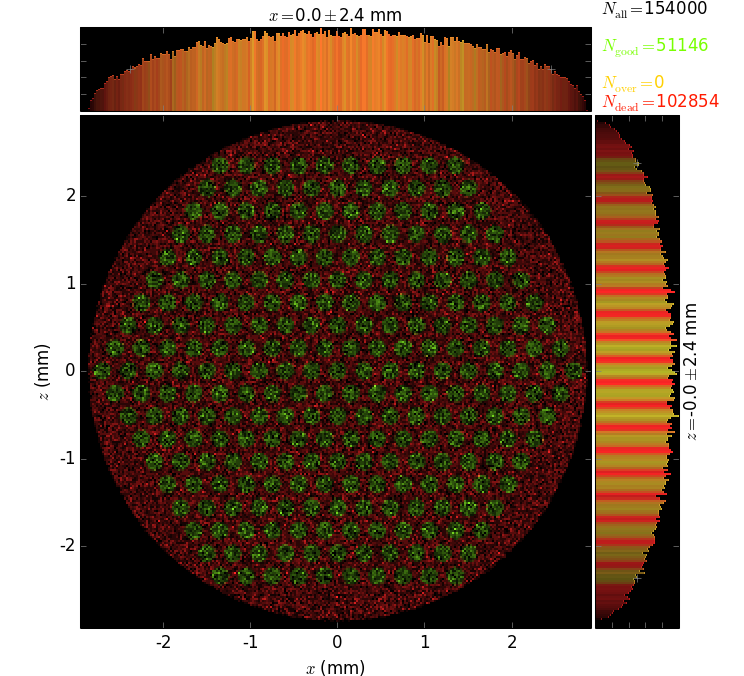
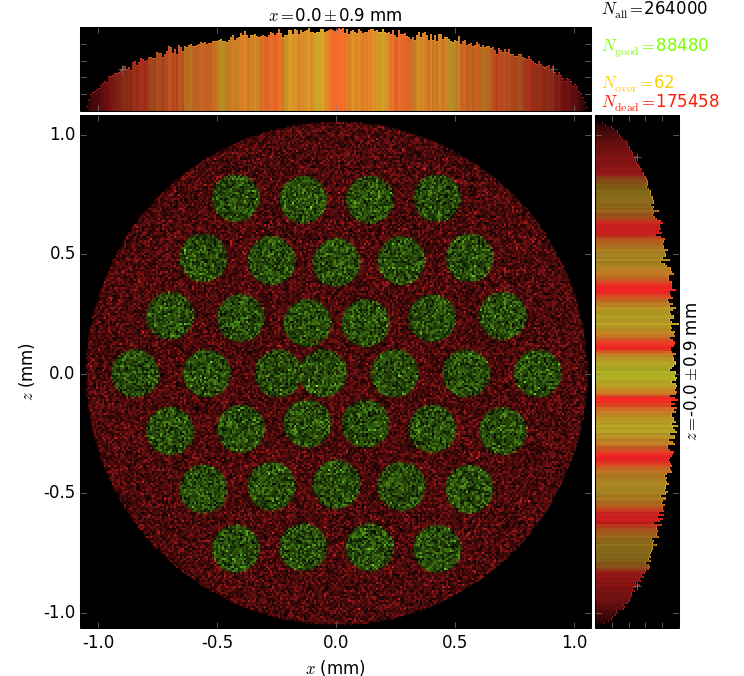
sinus shape capillaries, 4 layers, 1.2ks

diff --git a/myCapillary0A.py b/myCapillary0A.py
@@ -26,7 +26,7 @@ rSample = 100.
 f = 1500. # y length in mm from foucs to the end of the lens
 r0 = 0.1
 wall = 0.05
-layers = 10 # number of hexagonal layers
+layers = 4 # number of hexagonal layers
 nRefl = 12
 nReflDisp = 12
 xzPrimeMax = 3.
@@ -41,7 +41,7 @@ class BentCapillary(roe.OE):
         roe.OE.__init__(self, *args, **kwargs)
 
         s0 = self.f - self.rSample * np.cos(self.entranceAlpha)
-        self.a0 = -np.tan(self.entranceAlpha) / 4 / s0
+        self.a0 = -np.tan(self.entranceAlpha) / 2 / s0
         self.b0 = self.rSample * np.sin(self.entranceAlpha) - self.a0 * s0**2
         self.s0 = s0
         self.ar = (self.r0out-self.r0in) / s0**2
@@ -49,7 +49,7 @@ class BentCapillary(roe.OE):
         self.isParametric = True
 
     def local_x0(self, s):  # axis of capillary, x(s)
-        return self.a0 * s**2 + self.b0
+        return self.a0 * s**2 + self.b0 + np.sin(s/16)/8 # funky sin shape add
 
     def local_x0Prime(self, s):
         return 2 * self.a0 * s
